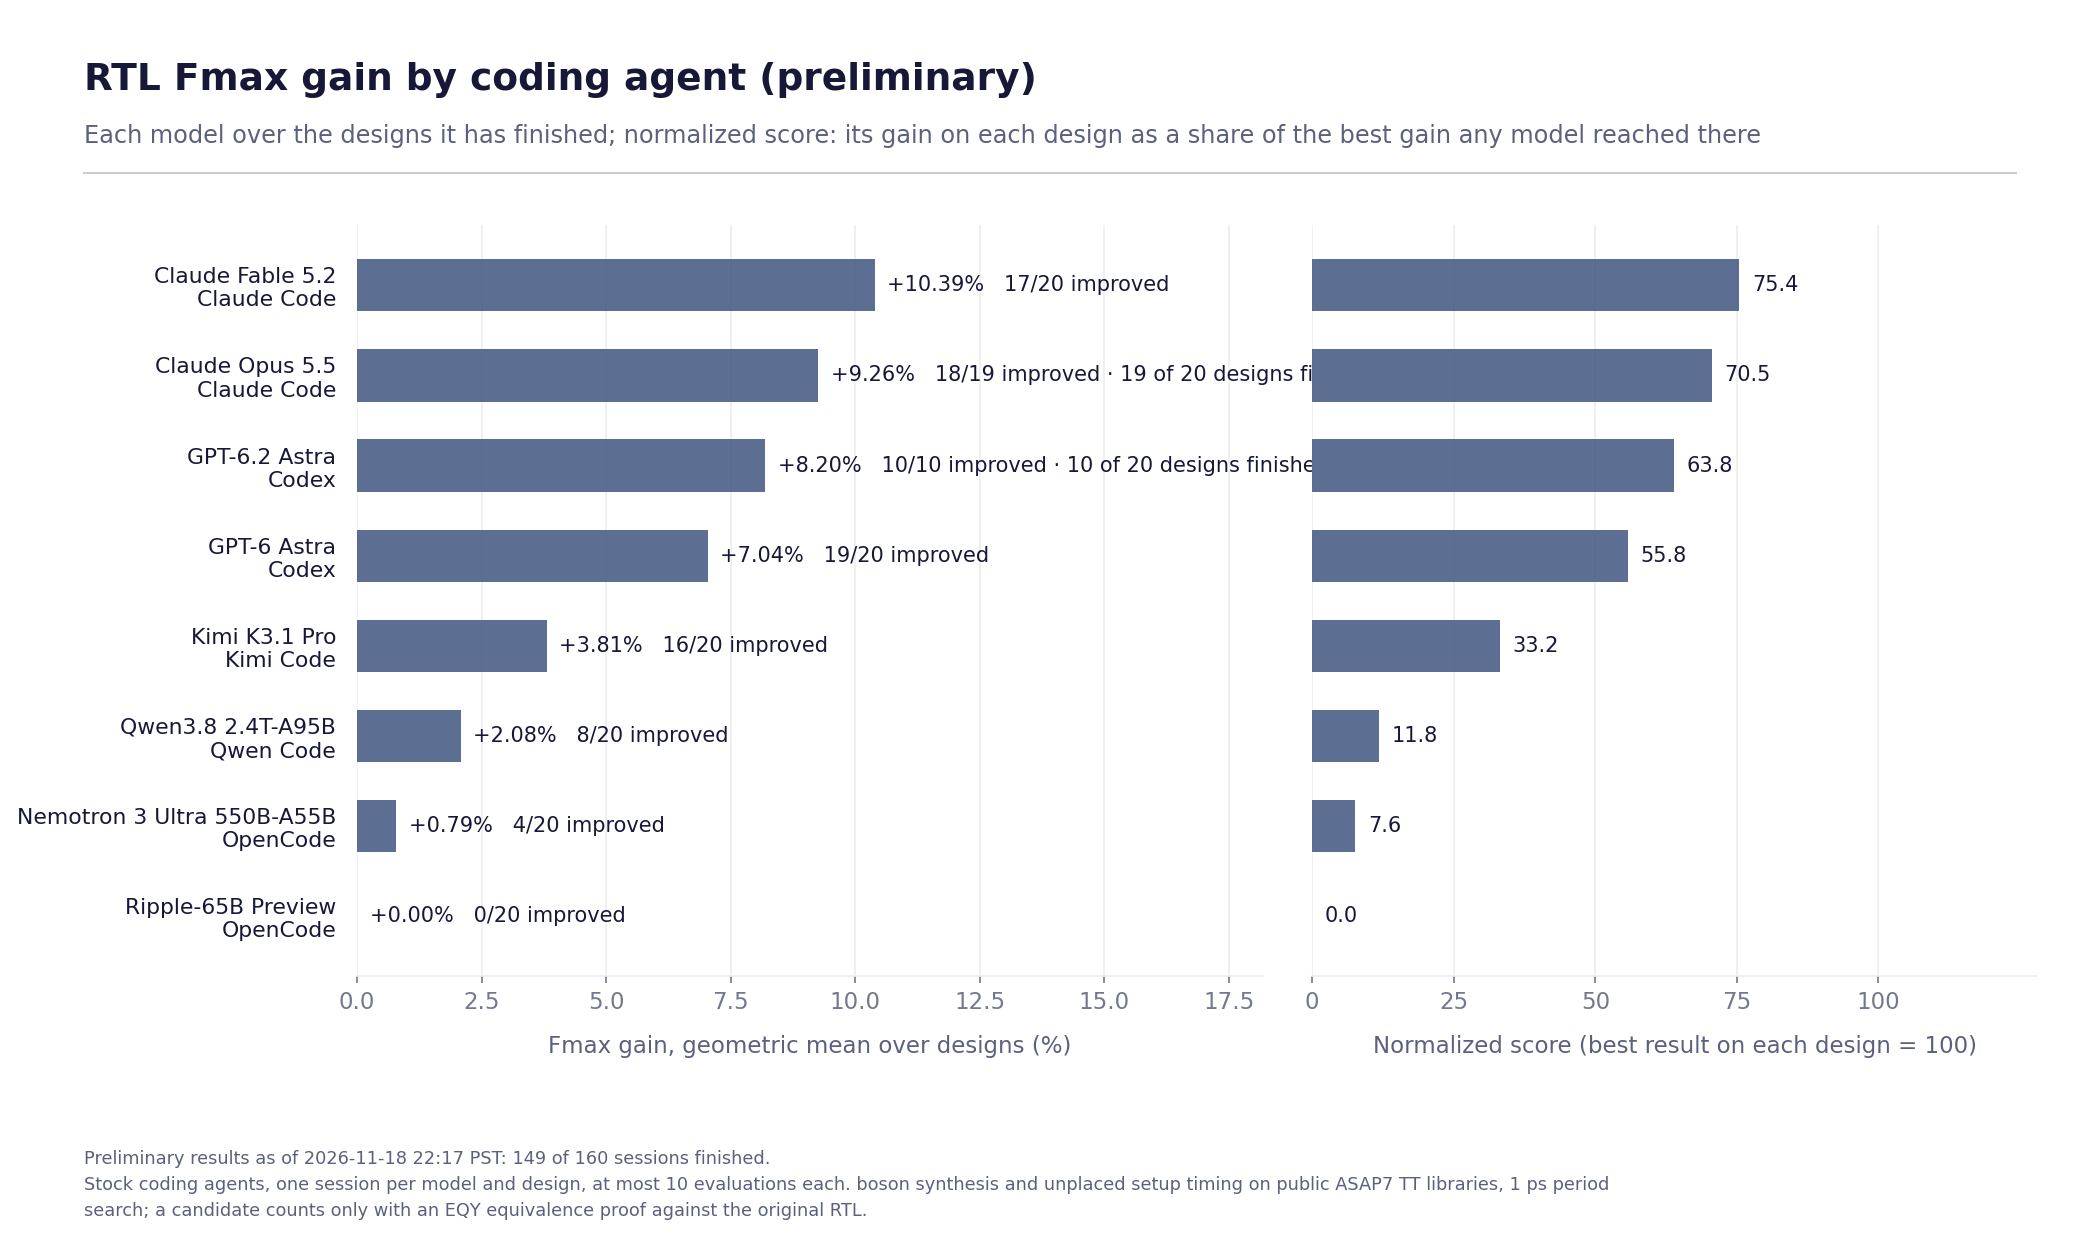
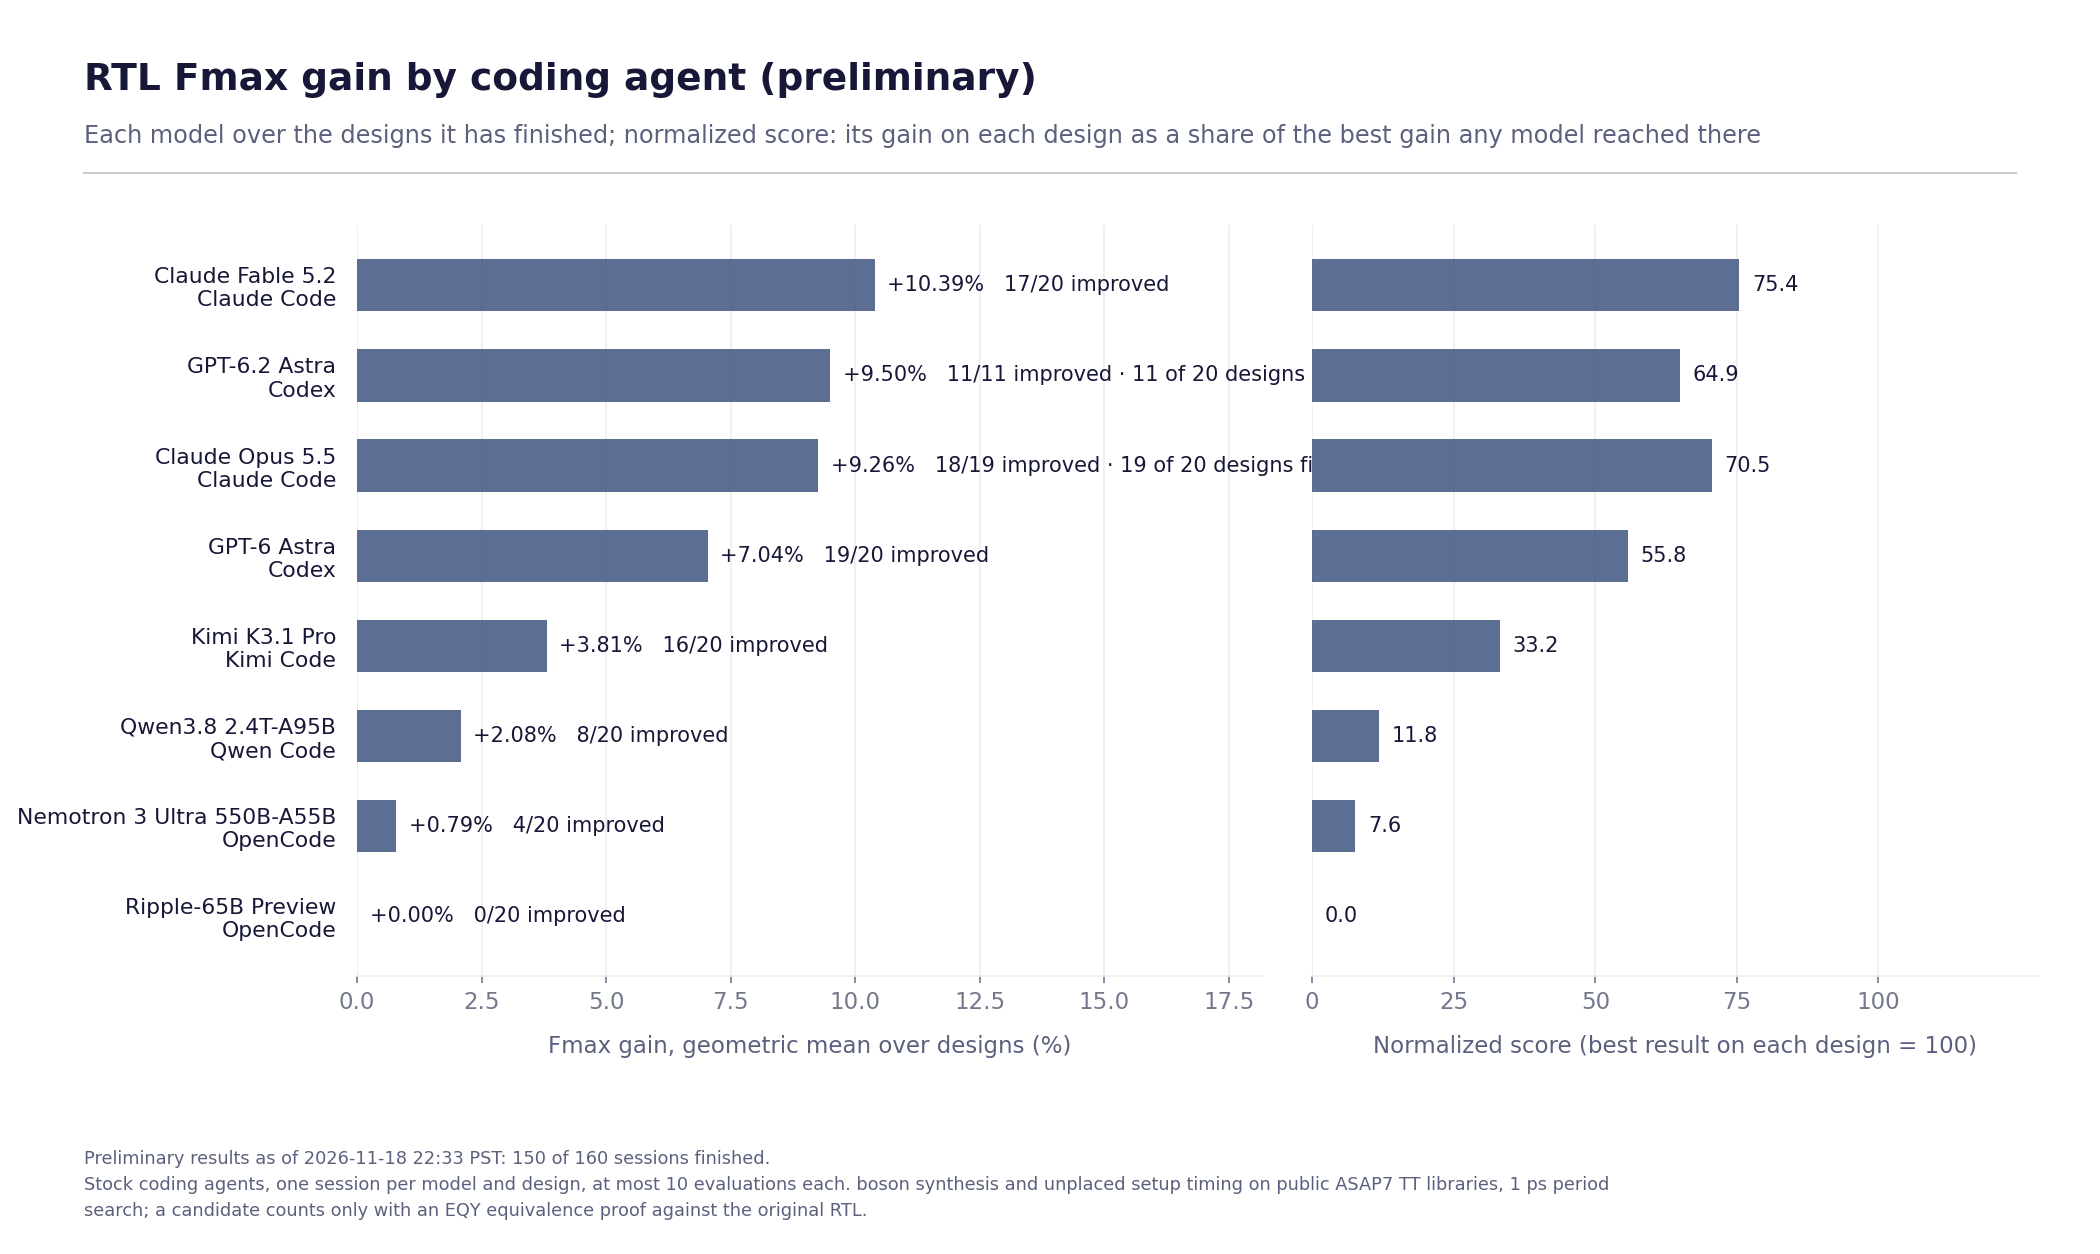
Refresh preliminary results: 150 of 160 sessions finished
Data as of 2026-11-18 22:33 PST.

diff --git a/README.md b/README.md
@@ -22,7 +22,7 @@ accepted only when it is proven equivalent and faster than the session's best so
 ## Results
 
 <!-- results:start -->
-**Status:** 149 of 160 sessions finished (8 models, 20 designs), as of 2026-11-18 22:17 PST.
+**Status:** 150 of 160 sessions finished (8 models, 20 designs), as of 2026-11-18 22:33 PST.
 
 ### Coverage
 
@@ -34,7 +34,7 @@ accepted only when it is proven equivalent and faster than the session's best so
 | Qwen3.8 2.4T-A95B | Qwen (Alibaba) | Qwen Code 0.27.1 | OpenRouter, one pinned provider (SiliconFlow, FP8) | 20 / 20 |
 | Ripple-65B Preview | Ricursive AI | OpenCode 1.19.5 | Self-hosted (SGLang 0.5.19, BF16) for its first 15 designs; OpenRouter pinned to PrimeIntellect (BF16) for later sessions | 20 / 20 |
 | Nemotron 3 Ultra 550B-A55B | NVIDIA | OpenCode 1.19.5 | OpenRouter, pinned to DeepInfra (FP4), fallbacks disabled | 20 / 20 |
-| GPT-6.2 Astra | OpenAI | Codex 0.169.1 | Official CLI signed in to a subscription; reasoning effort medium, as GPT-6 Astra ran | 10 / 20 |
+| GPT-6.2 Astra | OpenAI | Codex 0.169.1 | Official CLI signed in to a subscription; reasoning effort medium, as GPT-6 Astra ran | 11 / 20 |
 | Claude Opus 5.5 | Anthropic | Claude Code 2.1.322 | Official CLI signed in to a subscription | 19 / 20 |
 
 ### Results by model
@@ -42,8 +42,8 @@ accepted only when it is proven equivalent and faster than the session's best so
 | Model | Harness | Designs finished | Fmax gain (geomean) | Normalized score | Designs improved | Mean evaluations | Candidates not proven |
 |---|---|---:|---:|---:|---:|---:|---:|
 | Claude Fable 5.2 | Claude Code | 20 / 20 | +10.39% | 75.4 | 17 / 20 | 5.0 | 42% (42 / 99) |
+| GPT-6.2 Astra | Codex | 11 / 20 | +9.50% | 64.9 | 11 / 11 | 8.3 | 54% (49 / 91) |
 | Claude Opus 5.5 | Claude Code | 19 / 20 | +9.26% | 70.5 | 18 / 19 | 4.8 | 40% (36 / 91) |
-| GPT-6.2 Astra | Codex | 10 / 20 | +8.20% | 63.8 | 10 / 10 | 8.1 | 58% (47 / 81) |
 | GPT-6 Astra | Codex | 20 / 20 | +7.04% | 55.8 | 19 / 20 | 8.4 | 27% (45 / 169) |
 | Kimi K3.1 Pro | Kimi Code | 20 / 20 | +3.81% | 33.2 | 16 / 20 | 5.9 | 63% (74 / 118) |
 | Qwen3.8 2.4T-A95B | Qwen Code | 20 / 20 | +2.08% | 11.8 | 8 / 20 | 2.1 | 67% (28 / 42) |
@@ -59,7 +59,7 @@ Fmax gain is the geometric mean of each finished session's Fmax ratio (baseline 
 | `cheshire.default` | 1.047 | 8 | 0.957 | +9.40% | Claude Opus 5.5 |
 | `cv32e40p.default` | 0.657 | 8 | 0.601 | +9.32% | GPT-6.2 Astra |
 | `cva6.default` | 1.038 | 7 | 1.005 | +3.28% | Claude Opus 5.5 |
-| `cvfpu.fp32_fma` | 1.401 | 7 | 1.070 | +30.93% | Claude Fable 5.2 |
+| `cvfpu.fp32_fma` | 1.401 | 8 | 1.070 | +30.93% | Claude Fable 5.2 |
 | `cvfpu.full` | 2.114 | 7 | 1.976 | +6.98% | Claude Opus 5.5 |
 | `ibex.full` | 0.935 | 7 | 0.899 | +4.00% | GPT-6 Astra, Kimi K3.1 Pro |
 | `ibex.minimal` | 0.716 | 7 | 0.676 | +5.92% | Claude Fable 5.2 |
@@ -81,9 +81,9 @@ Fmax gain is the geometric mean of each finished session's Fmax ratio (baseline 
 
 Counts over every finished session of the models above. They describe what happened; with one session per model and design they do not establish causes or rankings.
 
-- 726 candidates evaluated: 207 accepted, 147 proven equivalent but not faster than the session's best, 364 not proven (265 with a partition EQY could not prove, 41 at the proof deadline, 52 over the proof memory budget, 6 for another reason), 8 failed to compile or measure.
-- Of 149 finished sessions, 99 ended with the agent finishing on its own, 49 ran to the time budget and 1 ended with an agent error.
-- Sessions used 4.9 of the 10 allowed evaluations on average; 24 used all 10.
+- 736 candidates evaluated: 213 accepted, 149 proven equivalent but not faster than the session's best, 366 not proven (267 with a partition EQY could not prove, 41 at the proof deadline, 52 over the proof memory budget, 6 for another reason), 8 failed to compile or measure.
+- Of 150 finished sessions, 100 ended with the agent finishing on its own, 49 ran to the time budget and 1 ended with an agent error.
+- Sessions used 4.9 of the 10 allowed evaluations on average; 25 used all 10.
 - Largest single gain so far: `mempool.minpool` by Claude Opus 5.5, 2.869 ns to 1.913 ns (+49.97% Fmax).
 <!-- results:end -->
 
